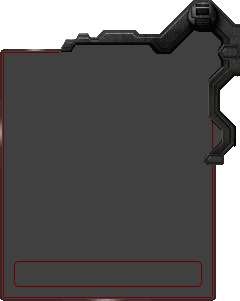
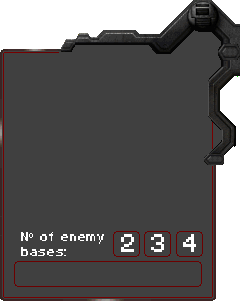
Dificulty selection on menu

Changed region(s): [[0.4667, 0.7475, 0.8458, 0.8671], [0.0875, 0.7475, 0.4375, 0.8671]]

diff --git a/Project/Motor2D/S_SceneMenu.cpp b/Project/Motor2D/S_SceneMenu.cpp
@@ -6,6 +6,7 @@
 #include "M_GUI.h"
 #include "M_InputManager.h"
 #include "S_SceneMap.h"
+#include "M_IA.h"
 
 S_SceneMenu::S_SceneMenu(bool at_start) : j1Module(at_start)
 {
@@ -32,6 +33,7 @@ bool S_SceneMenu::Start()
 	cursor = App->gui->CreateUI_Image({ 0, 0, 0, 0 }, cursorTexture, { 63, 63, 20, 20 });
 	UI_Elements.push_back(cursor);
 	cursor->SetLayer(N_GUI_LAYERS - 1);
+	App->IA->nBases = 4;
 
 	title_tex = App->tex->Load("graphics/ui/title.png");
 	background_menu_tex = App->tex->Load("graphics/ui/Menu background without title.png");
@@ -49,6 +51,7 @@ bool S_SceneMenu::Start()
 	//controlls texture
 	controls_tex = App->tex->Load("graphics/ui/readyt/pdpopup2.png");
 	border_tex2 = App->tex->Load("graphics/ui/readyt/tutbtn.png");
+	selector_tex = App->tex->Load("graphics/ui/readyt/selection.png");
 
 	LoadMenu1();
 
@@ -141,15 +144,30 @@ void S_SceneMenu::LoadMenu1()
 	UI_Elements.push_back(map_border);
 	map_border->SetParent(map_info_image);
 
-	// Info
-	vs_1 = App->gui->CreateUI_Label({ 40, 165, 0, 0 }, "1 vs 1", info_font, { 0, 0, 0, 0 });
-	UI_Elements.push_back(vs_1);
-	vs_1->SetParent(map_image);
-
 	//Map name Label
 	map_name = App->gui->CreateUI_Label({ 5, 195, 0, 0 }, "Void's Comeback", info_font, { 0, 0, 0, 0 });
 	UI_Elements.push_back(map_name);
 	map_name->SetParent(map_image);
+
+	//
+	dificulty_selector = App->gui->CreateUI_Image({ 130, 155, 0, 0 }, selector_tex, { 0, 0, 0, 0 });
+	dificulty_selector->SetParent(map_image);
+	dificulty_selector->SetActive(false);
+
+	dif4 = App->gui->CreateUI_Rect({ 135, 160, 30, 30 }, 255, 255, 255, 0);
+	dif4->SetParent(map_image);
+	dif4->AddListener(this);
+	dif4->SetActive(false);
+
+	dif3 = App->gui->CreateUI_Rect({ 102, 160, 30, 30 }, 255, 255, 255, 0);
+	dif3->SetParent(map_image);
+	dif3->AddListener(this);
+	dif3->SetActive(false);
+
+	dif2 = App->gui->CreateUI_Rect({ 70, 160, 30, 30 }, 255, 255, 255, 0);
+	dif2->SetParent(map_image);
+	dif2->AddListener(this);
+	dif2->SetActive(false);
 
 
 	//Cancel image and button
@@ -818,6 +836,7 @@ bool S_SceneMenu::CleanUp()
 	App->tex->UnLoad(controls_tex);
 	App->tex->UnLoad(border_tex2);
 	App->tex->UnLoad(loading_tex);
+	App->tex->UnLoad(selector_tex);
 #pragma endregion
 
 	vector.clear();
@@ -828,6 +847,22 @@ bool S_SceneMenu::CleanUp()
 
 void S_SceneMenu::OnGUI(GUI_EVENTS event, UI_Element* element)
 {
+
+	if (element == dif4 && event == UI_MOUSE_DOWN)
+	{
+		App->IA->nBases = 4;
+		dificulty_selector->localPosition = { dif4->localPosition.x - 5, dif4->localPosition.y - 5, 0, 0 };
+	}
+	if (element == dif3 && event == UI_MOUSE_DOWN)
+	{
+		App->IA->nBases = 3;
+		dificulty_selector->localPosition = { dif3->localPosition.x - 5, dif3->localPosition.y - 5, 0, 0 };
+	}
+	if (element == dif2 && event == UI_MOUSE_DOWN)
+	{
+		App->IA->nBases = 2;
+		dificulty_selector->localPosition = { dif2->localPosition.x - 5, dif2->localPosition.y - 5, 0, 0 };
+	}
 
 	if (element == ok && event == UI_MOUSE_DOWN)
 	{

diff --git a/Project/Motor2D/S_SceneMenu.h b/Project/Motor2D/S_SceneMenu.h
@@ -159,10 +159,15 @@ private:
 	UI_Label* player;
 	UI_Label* protoss;
 	UI_Label* zerg;
-	UI_Label * vs_1;
 	UI_Label* ok;
 	UI_Label* cancel;
 	UI_Label* map_name;
+
+	//dificculty selection
+	UI_Image* dificulty_selector;
+	UI_Element* dif2;
+	UI_Element* dif3;
+	UI_Element* dif4;
 	
 	//Info font
 	_TTF_Font* info_font;
@@ -213,6 +218,7 @@ private:
 	SDL_Texture* enter_name_tex;
 	SDL_Texture* border_tex2;
 	SDL_Texture* loading_tex;
+	SDL_Texture* selector_tex;
 
 	//Music
 	bool m_play = false;
